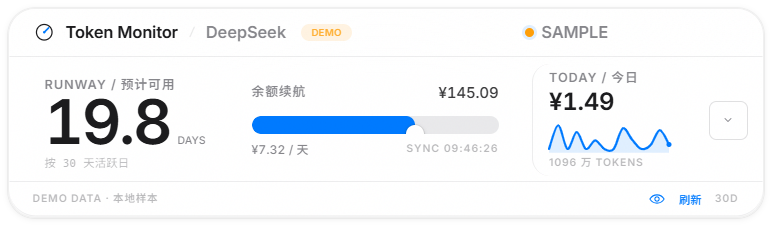
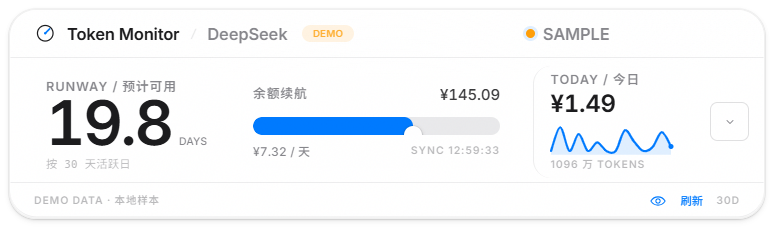
Hold the shadow inside six pixels, and let dark mode wear a lighter one
Six pixels is the envelope's ceiling, so the shadow is built to end inside it
instead of being cut by the window: a 0.5px rim, a 1px contact layer, a 3px near
layer and a 5px ambient pulled in with a negative spread. Every layer decays
before the window edge, which is what the 5px attempt lacked — there the 4px
blur simply stopped at the edge and read as a grey border.

The window becomes 516x152 / 516x818; the card stays 504x140 / 504x808 and keeps
its 48px inset from the work-area corner. Dark mode drops from 0.4/0.25/0.45
black to 0.2/0.1/0.24: on a light or coloured wallpaper the heavier stack read as
a dirty edge, while on a dark one it was invisible anyway. The white rim, the
border and the glass carry the separation; the shadow is only a contact hint.

The window also asks the real cursor when it is shown instead of starting
interactive until the first report, so the first click after it appears goes to
whichever side the pointer is on. Live screenshots regenerated.

diff --git a/main.js b/main.js
@@ -49,22 +49,25 @@ const IS_SHOT = Boolean(SHOT_MODE)
 const USE_CONFIG_IN_SHOT = process.argv.includes('--use-config')
 const FORCE_DARK = process.argv.includes('--dark') || SHOT_MODE === 'dark'
 
-// The window is the card plus a small shadow envelope. It used to be 36px on
-// every side, which left a large invisible input area around the card; the
-// shadow now fits in 5px and the window hugs the card. The card itself sits 48px
-// from the work area's top/right edge as before, so shrinking the envelope moves
-// the window edge in, not the card. The deck is sized to its content: head 44 +
-// scroll + foot 39 + 10 margin + 2 border. Both forms share one width: the
-// strip used to be 40px narrower, so a morph resized the window horizontally as
-// well as vertically — and the strip's content, laid out at the union width
-// during the reveal, reflowed when the window came down onto it: a visible
-// jitter on the last frame. One width makes the morph a pure vertical reveal,
-// and gives the strip's fixed columns the room their labels were squeezing into.
-const STAGE_GUTTER = 5
+// The window is the card plus a 6px shadow envelope (the user's hard limit for
+// the transparent area). Six pixels cannot hold a wide ambient shadow; what it
+// can hold is a layered contact shadow whose layers all end before the window
+// edge, so the falloff reads as depth rather than as a grey border cut off by
+// the window. The gutter is click-through (setMouseThrough), so it costs the
+// desktop no input. The card itself sits 48px from the work area's top/right
+// edge, so the window edge moves with the envelope, not the card. The deck is
+// sized to its content: head 44 + scroll + foot 39 + 12 margin + 2 border. Both
+// forms share one width: the strip used to be 40px narrower, so a morph resized
+// the window horizontally as well as vertically — and the strip's content, laid
+// out at the union width during the reveal, reflowed when the window came down
+// onto it: a visible jitter on the last frame. One width makes the morph a pure
+// vertical reveal, and gives the strip's fixed columns the room their labels
+// were squeezing into.
+const STAGE_GUTTER = 6
 const CARD_INSET = 48
-const FORM_WIDTH = 514
-const STRIP_SIZE = { width: FORM_WIDTH, height: 150 }
-const DECK_SIZE = { width: FORM_WIDTH, height: 818 }
+const FORM_WIDTH = 516
+const STRIP_SIZE = { width: FORM_WIDTH, height: 152 }
+const DECK_SIZE = { width: FORM_WIDTH, height: 820 }
 
 let mainWindow = null
 let tray = null
@@ -283,6 +286,14 @@ function trayImage() {
 // the page see moves returning over the card on Windows and macOS; Linux has
 // no forwarding, so a guarded poll takes the window back when the real cursor
 // is inside the card. The poll only runs while the window is ignoring.
+function cursorIsOverCard() {
+  if (!mainWindow || mainWindow.isDestroyed()) return false
+  const point = screen.getCursorScreenPoint()
+  const box = mainWindow.getBounds()
+  return point.x >= box.x + STAGE_GUTTER && point.x <= box.x + box.width - STAGE_GUTTER &&
+    point.y >= box.y + STAGE_GUTTER && point.y <= box.y + box.height - STAGE_GUTTER
+}
+
 function setMouseThrough(through) {
   if (!mainWindow || mainWindow.isDestroyed()) return
   mainWindow.setIgnoreMouseEvents(Boolean(through), { forward: true })
@@ -301,24 +312,25 @@ function setMouseThrough(through) {
       mouseThroughPoll = null
       return
     }
-    const point = screen.getCursorScreenPoint()
-    const box = mainWindow.getBounds()
-    const inside = point.x >= box.x + STAGE_GUTTER && point.x <= box.x + box.width - STAGE_GUTTER &&
-      point.y >= box.y + STAGE_GUTTER && point.y <= box.y + box.height - STAGE_GUTTER
-    if (!inside) return
+    if (!cursorIsOverCard()) return
     clearInterval(mouseThroughPoll)
     mouseThroughPoll = null
     mainWindow.setIgnoreMouseEvents(false)
   }, 150)
 }
 
+// On show the window may land under the cursor, and a click arriving before a
+// move must still hit whichever side the cursor is on. Ask the real pointer
+// instead of starting interactive until the first report.
+function syncMouseThrough() {
+  setMouseThrough(!cursorIsOverCard())
+}
+
 function revealWindow() {
   if (!mainWindow) return
   if (mainWindow.isMinimized()) mainWindow.restore()
   mainWindow.show()
-  // A hidden window keeps neither the pointer nor the last click-through
-  // decision; it is shown answering input until the renderer says otherwise.
-  setMouseThrough(false)
+  syncMouseThrough()
   mainWindow.focus()
 }
 
@@ -476,9 +488,9 @@ function createWindow() {
     } else {
       mainWindow.showInactive()
     }
-    // A window shown under the cursor must answer that cursor even if no move
-    // arrives first; the gutter becomes click-through only on the next report.
-    setMouseThrough(false)
+    // The window may land under the cursor; decide from the real pointer so a
+    // click arriving before any move still goes to the right side.
+    syncMouseThrough()
     if (config.alwaysOnTop && !showcase) applyAlwaysOnTop(true)
   })
 
@@ -780,7 +792,7 @@ if (!gotLock) {
     if (mainWindow) {
       if (mainWindow.isMinimized()) mainWindow.restore()
       mainWindow.show()
-      setMouseThrough(false)
+      syncMouseThrough()
       mainWindow.webContents.send('view:changed', currentView)
     }
   })

diff --git a/renderer/styles.css b/renderer/styles.css
@@ -52,10 +52,14 @@
   --vermilion-soft: rgba(255, 59, 48, 0.12);
   --panel-edge: rgba(0, 0, 0, 0.06);
   --panel-highlight: rgba(255, 255, 255, 0.9);
-  /* Tight enough to fit inside the 5px stage gutter: the old 14-20px blur was
-     what needed the 36px envelope, and a clipped blur would draw a hard edge at
-     the window. The rim, bloom and glass carry the depth now. */
-  --shadow: 0 0 0 0.5px rgba(0, 0, 0, 0.05), 0 1px 4px rgba(0, 0, 0, 0.08);
+  /* Every layer ends by 6px: the rim, a 1px contact, a 2px near layer and a
+     5px ambient pulled in with a negative spread. The stack decays over the
+     whole envelope instead of stopping at the window edge. */
+  --shadow:
+    0 0 0 0.5px rgba(0, 0, 0, 0.05),
+    0 1px 1px rgba(0, 0, 0, 0.07),
+    0 1px 3px rgba(0, 0, 0, 0.05),
+    0 2px 5px -2px rgba(0, 0, 0, 0.12);
   /* Glass, and it has to be glass: the window is transparent and the desktop
      really is behind this card, so the card is a tint over it rather than a
      painted sheet. A milky gradient with full opacity — the previous pass —
@@ -101,7 +105,14 @@ body.theme-dark {
   --vermilion-soft: rgba(255, 69, 58, 0.2);
   --panel-edge: rgba(255, 255, 255, 0.08);
   --panel-highlight: rgba(255, 255, 255, 0.08);
-  --shadow: 0 0 0 0.5px rgba(255, 255, 255, 0.06), 0 1px 4px rgba(0, 0, 0, 0.5);
+  /* Dark mode carries its separation on the white rim and the glass tint; the
+     shadow is a contact hint, not a black band. The first pass used 0.4/0.25/
+     0.45 and read as a dirty edge on a light or coloured wallpaper. */
+  --shadow:
+    0 0 0 0.5px rgba(255, 255, 255, 0.06),
+    0 1px 1px rgba(0, 0, 0, 0.2),
+    0 1px 3px rgba(0, 0, 0, 0.1),
+    0 2px 5px -2px rgba(0, 0, 0, 0.24);
   /* The same glass, smoked. The sheet is a light film over the tint rather than
      a second colour, so the two levels stay visible over a dark wallpaper. */
   --glass-base: rgba(20, 20, 22, 0.88);
@@ -213,11 +224,12 @@ select,
 .stage {
   position: fixed;
   inset: 0;
-  /* The card's shadow envelope. It was 36px, which made the transparent window
-     a large invisible input area; 5px fits the shadow below and keeps the
-     window's rectangle close to the card. The card's screen position is held by
-     CARD_INSET in main.js, so shrinking this does not move the card. */
-  padding: 5px;
+  /* The card's shadow envelope, capped at 6px. It was 36px (a large invisible
+     input area) and then 5px (too little for a falloff); 6px is the ceiling,
+     and the shadow below is built to end inside it. The gutter is click-through,
+     so its size costs no input. The card's screen position is held by
+     CARD_INSET in main.js, so changing this does not move the card. */
+  padding: 6px;
   display: flex;
 }
 
